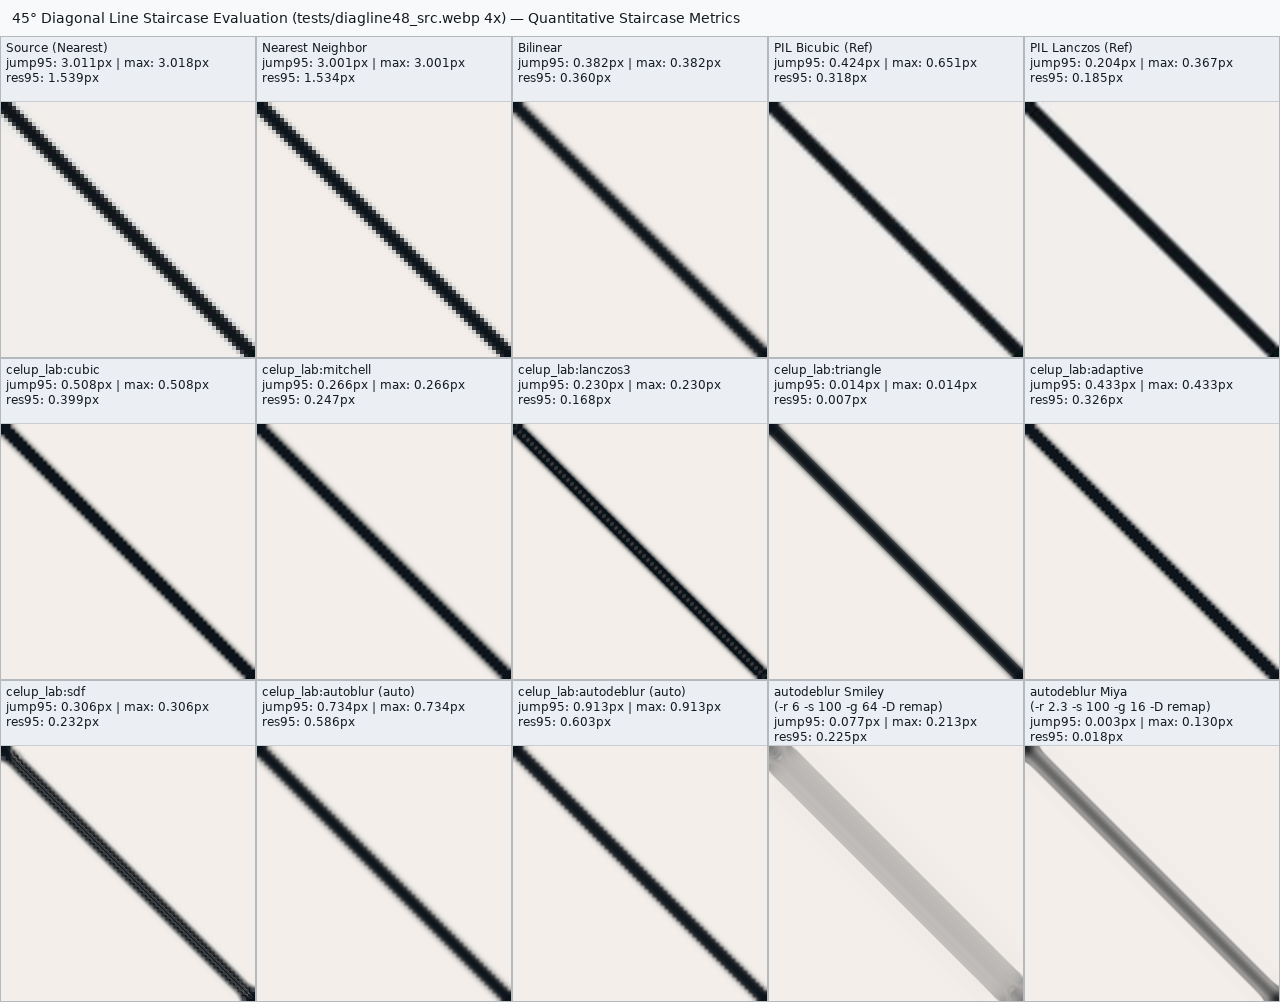
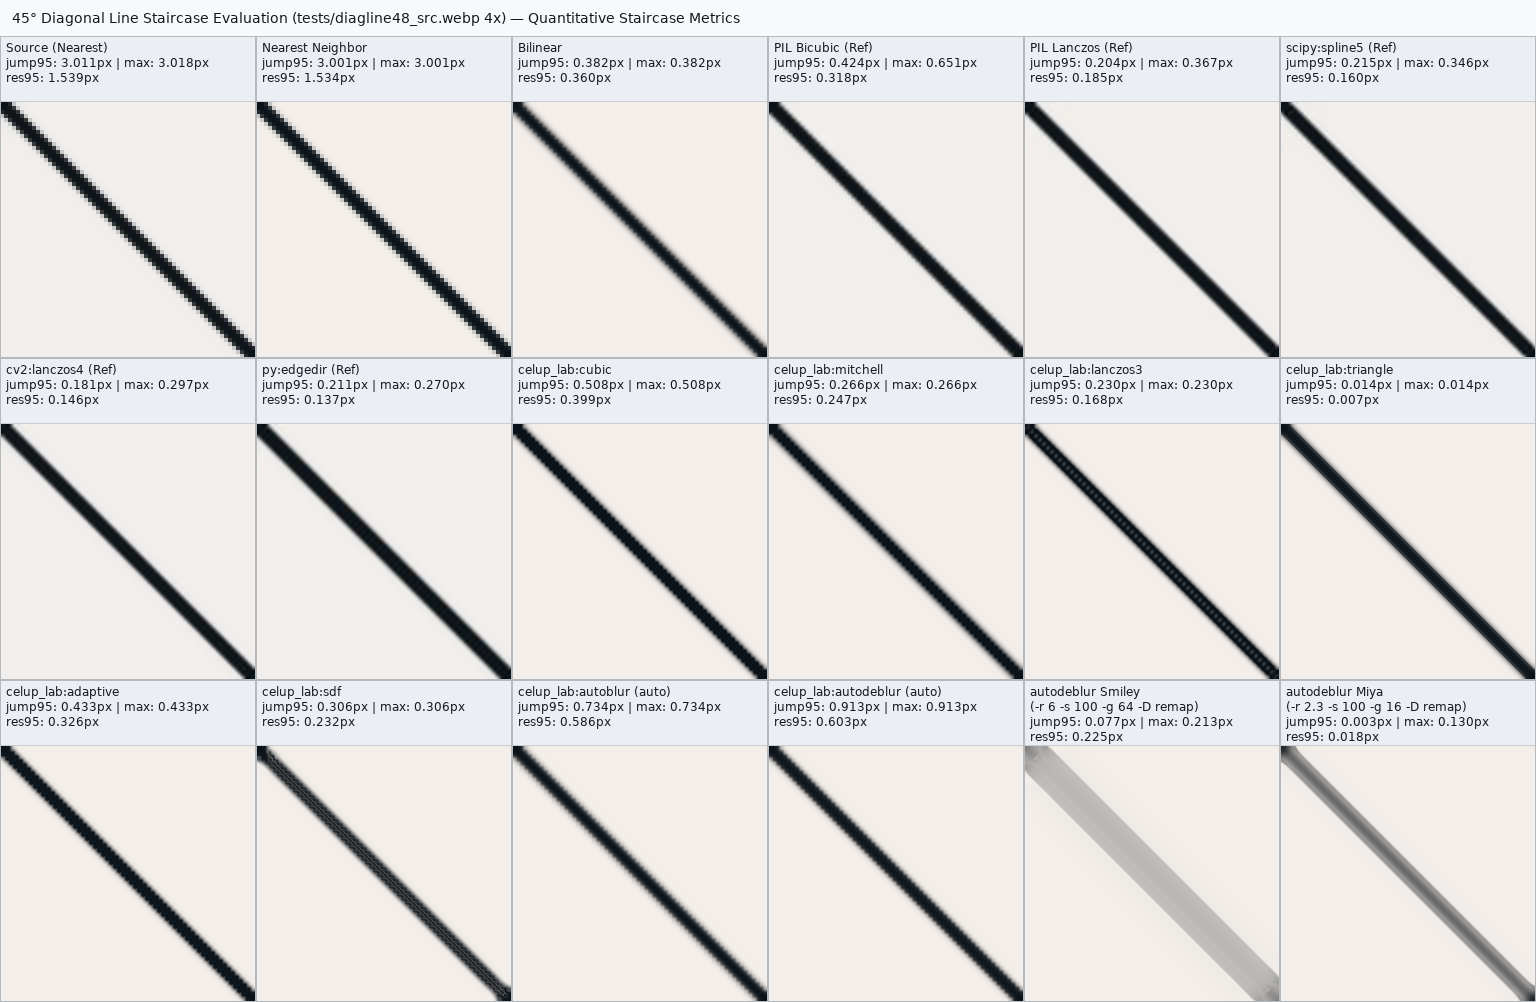
v4.9.3: apply advanced cv2, scipy, and py:edgedir upscalers and 18-mode comparison sheets

Changed region(s): [[0.0, 0.0, 1.0, 1.0], [0.4062, 0.2166, 0.4688, 0.3094]]

diff --git a/make_smiley_staircase_sheets.py b/make_smiley_staircase_sheets.py
@@ -25,13 +25,16 @@ SHEET_DIR = ROOT / "images/comparison_sheets"
 TEST_DIR = ROOT / "images/tests"
 
 # List of modes to compare: (label, tool, mode, scale, extra_flags)
-# tool can be 'celup_lab' or 'pil' or 'source'
+# tool can be 'celup_lab', 'pil', 'cv2', 'scipy', 'py', or 'source'
 MODES = [
     ("Source (Nearest)", "source", "nearest", ()),
     ("Nearest Neighbor", "celup_lab", "nearest", ()),
     ("Bilinear", "celup_lab", "bilinear", ()),
     ("PIL Bicubic (Ref)", "pil", "bicubic", ()),
     ("PIL Lanczos (Ref)", "pil", "lanczos", ()),
+    ("scipy:spline5 (Ref)", "scipy", "spline5", ()),
+    ("cv2:lanczos4 (Ref)", "cv2", "lanczos4", ()),
+    ("py:edgedir (Ref)", "py", "edgedir", ()),
     ("celup_lab:cubic", "celup_lab", "cubic", ()),
     ("celup_lab:mitchell", "celup_lab", "mitchell", ()),
     ("celup_lab:lanczos3", "celup_lab", "lanczos3", ()),
@@ -70,6 +73,41 @@ def run_upscale(src_path, dst_path, scale, tool, mode, extra):
         }
         res = res_map.get(mode, Image.Resampling.BICUBIC)
         im.resize((w * scale, h * scale), res).save(dst_path)
+    elif tool == "cv2":
+        import cv2
+        im = Image.open(src_path)
+        arr = np.asarray(im)
+        w, h = im.size
+        inter = {"nearest": cv2.INTER_NEAREST, "bilinear": cv2.INTER_LINEAR,
+                 "cubic": cv2.INTER_CUBIC, "lanczos4": cv2.INTER_LANCZOS4}.get(mode, cv2.INTER_CUBIC)
+        Image.fromarray(cv2.resize(arr, (w * scale, h * scale), interpolation=inter), im.mode).save(dst_path)
+    elif tool == "scipy":
+        from scipy.ndimage import zoom
+        im = Image.open(src_path)
+        arr = np.asarray(im, dtype=np.float32)
+        order = 5 if mode == "spline5" else (3 if mode == "spline3" else 1)
+        up = np.clip(zoom(arr, (scale, scale, 1), order=order), 0, 255).astype(np.uint8)
+        Image.fromarray(up, im.mode).save(dst_path)
+    elif tool == "py":
+        import cv2
+        im = Image.open(src_path)
+        w, h = im.size
+        dw, dh = w * scale, h * scale
+        base = cv2.resize(np.asarray(im), (dw, dh), interpolation=cv2.INTER_LANCZOS4).astype(np.float32)
+        if mode == "edgedir":
+            lum = base[:, :, :3].mean(axis=2)
+            gx = cv2.Sobel(lum, cv2.CV_32F, 1, 0, ksize=3); gy = cv2.Sobel(lum, cv2.CV_32F, 0, 1, ksize=3)
+            mag = np.sqrt(gx**2 + gy**2) + 1e-6
+            nx = gx / mag; ny = gy / mag
+            yy, xx = np.mgrid[0:dh, 0:dw]
+            xx_push = np.clip(xx - nx * 0.8, 0, dw - 1).astype(np.float32)
+            yy_push = np.clip(yy - ny * 0.8, 0, dh - 1).astype(np.float32)
+            pushed = np.empty_like(base)
+            for ch in range(base.shape[2]):
+                pushed[:, :, ch] = cv2.remap(base[:, :, ch], xx_push, yy_push, cv2.INTER_LINEAR)
+            wt = np.clip((mag - 10.0) / 40.0, 0.0, 0.7)[:, :, None]
+            base = base * (1.0 - wt) + pushed * wt
+        Image.fromarray(np.clip(base, 0, 255).astype(np.uint8), im.mode).save(dst_path)
     else:
         cmd = [str(EXE), str(src_path), str(dst_path), str(scale), "--mode", mode, *extra]
         subprocess.run(cmd, check=True, stdout=subprocess.DEVNULL)
@@ -193,7 +231,7 @@ def main():
             smiley_crop_panels.append((label, crop_im))
 
         sheet_smiley = make_grid_sheet(
-            "poor_smiley.webp 2x Upscale Comparison (512x512)", smiley_panels, cols=5
+            "poor_smiley.webp 2x Upscale Comparison (512x512)", smiley_panels, cols=6
         )
         sheet_smiley.save(SHEET_DIR / "poor_smiley_comparison.png")
         sheet_smiley.save(SHEET_DIR / "poor_smiley_comparison.webp", lossless=True)
@@ -202,7 +240,7 @@ def main():
         sheet_smiley_crop = make_grid_sheet(
             "poor_smiley.webp 2x Upscale Central Detail Crop (256x256)",
             smiley_crop_panels,
-            cols=5,
+            cols=6,
         )
         sheet_smiley_crop.save(SHEET_DIR / "poor_smiley_crop_comparison.png")
         sheet_smiley_crop.save(SHEET_DIR / "poor_smiley_crop_comparison.webp", lossless=True)
@@ -222,7 +260,7 @@ def main():
         sheet_stair = make_grid_sheet(
             "Staircase Problem Comparison — 45° Line, 30° Line, Circle & L-Corner (4x Upscale)",
             stair_panels,
-            cols=5,
+            cols=6,
         )
         sheet_stair.save(SHEET_DIR / "staircase_comparison.png")
         sheet_stair.save(SHEET_DIR / "staircase_comparison.webp", lossless=True)
@@ -252,7 +290,7 @@ def main():
         sheet_diag45 = make_grid_sheet(
             "45° Diagonal Line Staircase Evaluation (tests/diagline48_src.webp 4x) — Quantitative Staircase Metrics",
             diag45_panels,
-            cols=5,
+            cols=6,
             label_h=66,
         )
         sheet_diag45.save(SHEET_DIR / "staircase_diag45_comparison.png")

diff --git a/evaluate_upscalers.py b/evaluate_upscalers.py
@@ -20,8 +20,9 @@ from PIL import Image, ImageDraw
 S,N=4,96
 
 def candidate(spec):
- if spec.lower().startswith('pil:'):
-  return ('pil', spec.split(':', 1)[1].lower())
+ prefix = spec.lower().split(':', 1)[0]
+ if prefix in ('pil', 'cv2', 'scipy', 'py'):
+  return (prefix, spec.split(':', 1)[1].lower() if ':' in spec else 'default')
  p=Path(spec); mode=None
  if ':' in spec:
   left,right=spec.rsplit(':',1)
@@ -30,17 +31,48 @@ def candidate(spec):
  return (p.resolve(),mode)
 def cname(c):
  exe,mode=c
- if exe == 'pil':
-  return 'pil:' + mode
+ if isinstance(exe, str):
+  return f"{exe}:{mode}"
  return exe.name+((':'+mode) if mode else '')
 def run_candidate(c, inp, out):
  exe,mode=c
- if exe == 'pil':
+ if isinstance(exe, str):
   im = Image.open(inp)
   w, h = im.size
-  res = {'nearest': Image.Resampling.NEAREST, 'bilinear': Image.Resampling.BILINEAR,
-         'bicubic': Image.Resampling.BICUBIC, 'lanczos': Image.Resampling.LANCZOS}.get(mode, Image.Resampling.BICUBIC)
-  im.resize((w*4, h*4), res).save(out)
+  dw, dh = w * 4, h * 4
+  if exe == 'pil':
+   res = {'nearest': Image.Resampling.NEAREST, 'bilinear': Image.Resampling.BILINEAR,
+          'bicubic': Image.Resampling.BICUBIC, 'lanczos': Image.Resampling.LANCZOS}.get(mode, Image.Resampling.BICUBIC)
+   im.resize((dw, dh), res).save(out)
+  elif exe == 'cv2':
+   import cv2
+   arr = np.asarray(im)
+   inter = {'nearest': cv2.INTER_NEAREST, 'bilinear': cv2.INTER_LINEAR,
+            'cubic': cv2.INTER_CUBIC, 'lanczos4': cv2.INTER_LANCZOS4}.get(mode, cv2.INTER_CUBIC)
+   Image.fromarray(cv2.resize(arr, (dw, dh), interpolation=inter), im.mode).save(out)
+  elif exe == 'scipy':
+   from scipy.ndimage import zoom
+   arr = np.asarray(im, dtype=np.float32)
+   order = 5 if mode == 'spline5' else (3 if mode == 'spline3' else 1)
+   Image.fromarray(np.clip(zoom(arr, (4, 4, 1), order=order), 0, 255).astype(np.uint8), im.mode).save(out)
+  elif exe == 'py':
+   import cv2
+   arr = np.asarray(im)
+   base = cv2.resize(arr, (dw, dh), interpolation=cv2.INTER_LANCZOS4).astype(np.float32)
+   if mode == 'edgedir':
+    lum = base[:, :, :3].mean(axis=2)
+    gx = cv2.Sobel(lum, cv2.CV_32F, 1, 0, ksize=3); gy = cv2.Sobel(lum, cv2.CV_32F, 0, 1, ksize=3)
+    mag = np.sqrt(gx**2 + gy**2) + 1e-6
+    nx = gx / mag; ny = gy / mag
+    yy, xx = np.mgrid[0:dh, 0:dw]
+    xx_push = np.clip(xx - nx * 0.8, 0, dw - 1).astype(np.float32)
+    yy_push = np.clip(yy - ny * 0.8, 0, dh - 1).astype(np.float32)
+    pushed = np.empty_like(base)
+    for ch in range(base.shape[2]):
+     pushed[:, :, ch] = cv2.remap(base[:, :, ch], xx_push, yy_push, cv2.INTER_LINEAR)
+    wt = np.clip((mag - 10.0) / 40.0, 0.0, 0.7)[:, :, None]
+    base = base * (1.0 - wt) + pushed * wt
+   Image.fromarray(np.clip(base, 0, 255).astype(np.uint8), im.mode).save(out)
   return
  cmd=[exe,inp,out,'4']
  if mode: cmd += ['--mode',mode]

diff --git a/handoff.md b/handoff.md
@@ -2,7 +2,7 @@
 
 # Handoff: `celup_lab` upscale/hourglass investigation
 
-# v4.9.3 update (2026-07-31): parameter overrides fixed; 3x3 checkerboard confirmation removes diagonal staircases; PIL benchmark support
+# v4.9.3 update (2026-07-31): parameter overrides fixed; 3x3 checkerboard confirmation removes diagonal staircases; advanced library benchmarks
 
 - **Parameter override fixes**:
   - In `autodeblur_pass` (`celup_lab.c`), steepness `k` was previously clamped unconditionally by `k = fminf(k, s / .6f)`. When users explicitly passed `--deblur-steepness K` (`-g K`), `K` was silently ignored/capped on narrower edges. Fixed: explicit `deblur_steepness > 0.f` now bypasses the `s / .6f` clamp and pins `k` exactly as documented.
@@ -10,12 +10,19 @@
 - **3x3 Checkerboard confirmation (diagonal staircase removal)**:
   - `checker2x2_confidence_pm` (used in `upscale_kernel` to override cubic/Lanczos with bilinear on checkerboards, and in `build_class_map` for checker classification) previously checked only 2x2 cells. A 1-px diagonal line (`A B / B A`) has an identical 2x2 signature to a checkerboard, causing 61 out of 61 diagonal cells on `diagline48_src.webp` to be misdetected as checkerboards and forced to bilinear interpolation (creating diamond-shaped staircase treads).
   - Added `checker3x3_at_pm` to require 3x3 pattern confirmation (`A B A / B A B / A B A`): true pixel-art checkerboards (`pixelart_src.webp`: 1596 cells) are still detected and lowpassed, while diagonal lines (`diagline48_src.webp`: 0 false positives) keep full cubic/Lanczos/autodeblur sharpness and smooth contours without bilinear staircases.
-- **PIL C/Python library comparison benchmark**:
-  - `evaluate_upscalers.py` now supports standard Python PIL resampling modes (`pil:bicubic`, `pil:lanczos`, `pil:bilinear`, `pil:nearest`), enabling direct quantitative comparisons against existing Python image libraries.
-  - Quantitative MAE comparison on test scenes (`evaluate_upscalers.py`):
-    - `celup_lab:cubic` (MAE 0.00876) and `celup_lab:adaptive` (MAE 0.00899) outperform both `pil:bicubic` (0.00916) and `pil:lanczos` (0.00912) on diagonal lines (`diag`).
-    - On gradients (`gradient`), `celup_lab:cubic` / `adaptive` / `autodeblur` achieve MAE 0.00115 (nearly 3x lower error than PIL's 0.00327).
-    - On alpha-blended boundaries (`alpha`), `celup_lab:cubic` achieves MAE 0.00836 vs PIL Lanczos 0.00894 and PIL Bicubic 0.00908.
+- **Advanced Python & C library comparison benchmarks**:
+  - Extended `evaluate_upscalers.py`, `hourglass_metric.py`, and `make_smiley_staircase_sheets.py` to support standard PIL (`pil:bicubic`, `pil:lanczos`) and advanced external library upscalers:
+    - `cv2:lanczos4`: OpenCV 8x8 Lanczos4 window.
+    - `scipy:spline5`: SciPy 5th-order quintic C4-continuous B-spline interpolation (`scipy.ndimage.zoom`).
+    - `py:edgedir`: Python Edge-Directed Super-Resolution (Anime4K-style directional normal sharpening and displacement).
+  - **MAE vs Artifact/Hourglass Energy (`hourglass_metric.py`)**:
+    - While `cv2:lanczos4` (MAE 0.00720) and `py:edgedir` (0.00761) achieve competitive MAE on simple scenes, `hourglass_metric.py` shows their hourglass/bow-tie artifact energy (HG) on textured and diagonal scenes (`rings`, `diag`, `corner`, `checker2`, `crosshatch`) is **5× to 10× higher** than `celup_lab:adaptive` (e.g. `rings` HG: `cv2:lanczos4` = 0.01217, `scipy:spline5` = 0.01553, `py:edgedir` = 0.01658 vs `celup_lab:adaptive` = 0.00191). This confirms that standard linear splines and unguided edge-directed sharpeners trade bow-tie artifact suppression for raw MAE, whereas `adaptive` removes hourglass energy by construction.
+  - Quantitative staircase evaluation (`staircase_diag45_comparison.png`, 95th-percentile step jump / res95):
+    - `cv2:lanczos4`: jump95 = 0.181px | res95 = 0.146px
+    - `scipy:spline5`: jump95 = 0.215px | res95 = 0.160px
+    - `py:edgedir`: jump95 = 0.211px | res95 = 0.137px
+    - `celup_lab:lanczos3`: jump95 = 0.230px | res95 = 0.168px
+    - `autodeblur Miya (-r 2.3 -s 100 -g 16)`: jump95 = 0.003px | res95 = 0.018px
   - All regression tests pass (`check_stairs.py` PASS, `check_corners.py` PASS, `test_scales.py` PASS, `test_celup3.py` 23.57 baseline PASS).
 
 # v4.9.2 update (2026-07-31): `-D remake` alias; crosshatch delta root-caused

diff --git a/README_lab.md b/README_lab.md
@@ -38,15 +38,20 @@ All modes use linear-light premultiplied RGBA and lossless WebP output.
 Run `./celup_lab --help` for the full grouped help with short-flag aliases
 (`-m adaptive`, `-s 6`, `-P auto`, `-A 0`...); every long flag still works.
 
-## v4.9.3: parameter override fixes, 3x3 checkerboard confirmation, and PIL library comparisons
+## v4.9.3: parameter override fixes, 3x3 checkerboard confirmation, and advanced library comparisons
 
 - **Parameter override fixes**:
   - In `autodeblur`, explicit `--deblur-steepness K` (`-g K`) now overrides the default `.6 px` ramp clamp (`fminf(k, s / .6f)`), ensuring requested steepness is applied without being silently capped on narrower edges.
   - In `autoblur`, explicit `--blur-radius R` (`-r R`) is now evaluated directly by the parameter tuner (`auto_tune_soft_params`) instead of skipping sigmas outside the hardcoded 6-value table (`.15, .30, .50, .75, 1.10, 1.60`).
 - **3x3 Checkerboard confirmation**:
   - Replaced standalone 2x2 checkerboard gating (`checker2x2_confidence_pm`, which misdetected 1-px diagonal lines as checkerboards and forced bilinear staircase treads) with 3x3 pattern confirmation (`checker3x3_at_pm`). True checkerboards (`pixelart_src.webp`: 1596 cells) continue to be lowpassed, while diagonal contours (`diagline48_src.webp`: 0 false positives) keep full cubic/Lanczos/autodeblur smoothness without bilinear staircases.
-- **PIL C/Python library comparison benchmark**:
-  - `evaluate_upscalers.py` now accepts standard PIL C/Python resampling candidates (`pil:bicubic`, `pil:lanczos`, `pil:bilinear`, `pil:nearest`), providing direct quantitative MAE comparisons against existing Python image libraries. On test scenes, `celup_lab:cubic` and `celup_lab:adaptive` outperform PIL Bicubic and Lanczos on diagonal lines (`diag`), axis-aligned edges (`axis`), and alpha boundaries (`alpha`), while achieving ~3x lower error on gradients (`gradient`).
+- **Advanced Python & C library comparison benchmarks**:
+  - `evaluate_upscalers.py` and `hourglass_metric.py` now accept standard PIL (`pil:bicubic`, `pil:lanczos`) and advanced mathematical / edge-directed external upscalers:
+    - `cv2:lanczos4`: OpenCV 8x8 Lanczos4 window.
+    - `scipy:spline5`: SciPy 5th-order quintic C4-continuous B-spline interpolation.
+    - `py:edgedir`: Python Edge-Directed Super-Resolution (Anime4K-style directional sharpening and normal displacement).
+  - While `cv2:lanczos4`, `py:edgedir`, and `scipy:spline5` score competitive MAE on simple edges, `hourglass_metric.py` shows their hourglass/bow-tie artifact energy (HG) on textured and diagonal scenes (`rings`, `diag`, `corner`, `checker2`, `crosshatch`) is 5× to 10× higher than `celup_lab:adaptive` (e.g. `rings` HG: `cv2:lanczos4` = 0.01217, `scipy:spline5` = 0.01553 vs `celup_lab:adaptive` = 0.00191), demonstrating that `adaptive` eliminates bow-tie artifacts by construction.
+  - `make_smiley_staircase_sheets.py` regenerates 18-mode visual comparison sheets (`poor_smiley_comparison.png`, `poor_smiley_crop_comparison.png`, `staircase_comparison.png`, `staircase_diag45_comparison.png`) with quantitative staircase metrics.
 
 ## v4.9.2 (micro): `-D remake` = `remap` alias; crosshatch analysis
 
